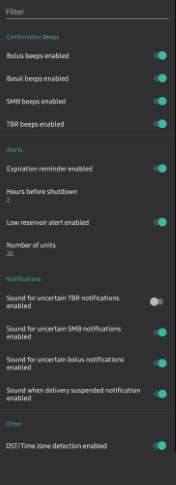
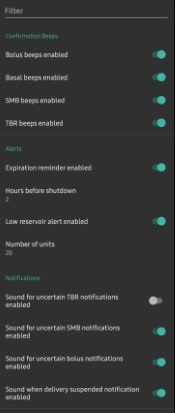
Updated for PR#1759 - 'automatic DST/timezone' button removed from config

diff --git a/docs/EN/Configuration/OmnipodDASH.md b/docs/EN/Configuration/OmnipodDASH.md
@@ -331,10 +331,6 @@ Provides AAPS notifications and audible phone alerts when it is uncertain if TBR
 * **Sound for uncertain bolus notifications enabled:** Enable or disable this setting to trigger an audible alert and visual notification when AAPS is uncertain if a bolus was successfully delivered.
 * **Sound when delivery suspended notifications enabled:** Enable or disable this setting to trigger an audible alert and visual notification when suspend delivery was successfully delivered.
 
-### Other
-
-* **\*DST/Time zone detect on enabled:** allows for time zone changes to be automatically detected if the phone is used in an area where DST is observed.
-
 ## Actions (ACT) Tab
 
 This tab is well documented in the main AAPS documentation but there are a few items on this tab that are specific to how the Omnipod Dash pod differs from tube based pumps, especially after the processes of applying a new pod.
